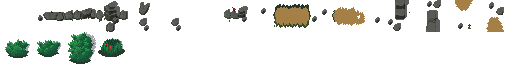
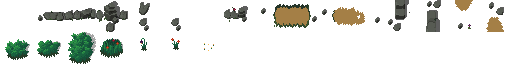
Update forest, grass and add various objects

diff --git a/src/generation/object/lib/object_name.rs b/src/generation/object/lib/object_name.rs
@@ -15,6 +15,7 @@ pub enum ObjectName {
   SandPattern2,
   SandPattern3,
   SandPattern4,
+  SandPattern5,
   SandPathLeft,
   SandPathRight,
   SandPathTop,
@@ -49,6 +50,9 @@ pub enum ObjectName {
   GrassBush2,
   GrassBush3,
   GrassBush4,
+  GrassFlower1,
+  GrassFlower2,
+  GrassFlower3,
   ForestRuinLeft,
   ForestRuinRight,
   ForestRuinTop,

diff --git a/README.md b/README.md
@@ -78,3 +78,5 @@ such as JetBrains RustRover, you'll have to set up the environment manually. You
 #### Run configurations
 
 - Create a run configuration with environment variable `RUST_LOG=procedural_generation_2=debug` for debug logs
+- Create a run configuration with environment variable
+  `RUST_LOG=procedural_generation_2=debug,procedural_generation_2::generation::object=trace` to add WFC trace logs too
